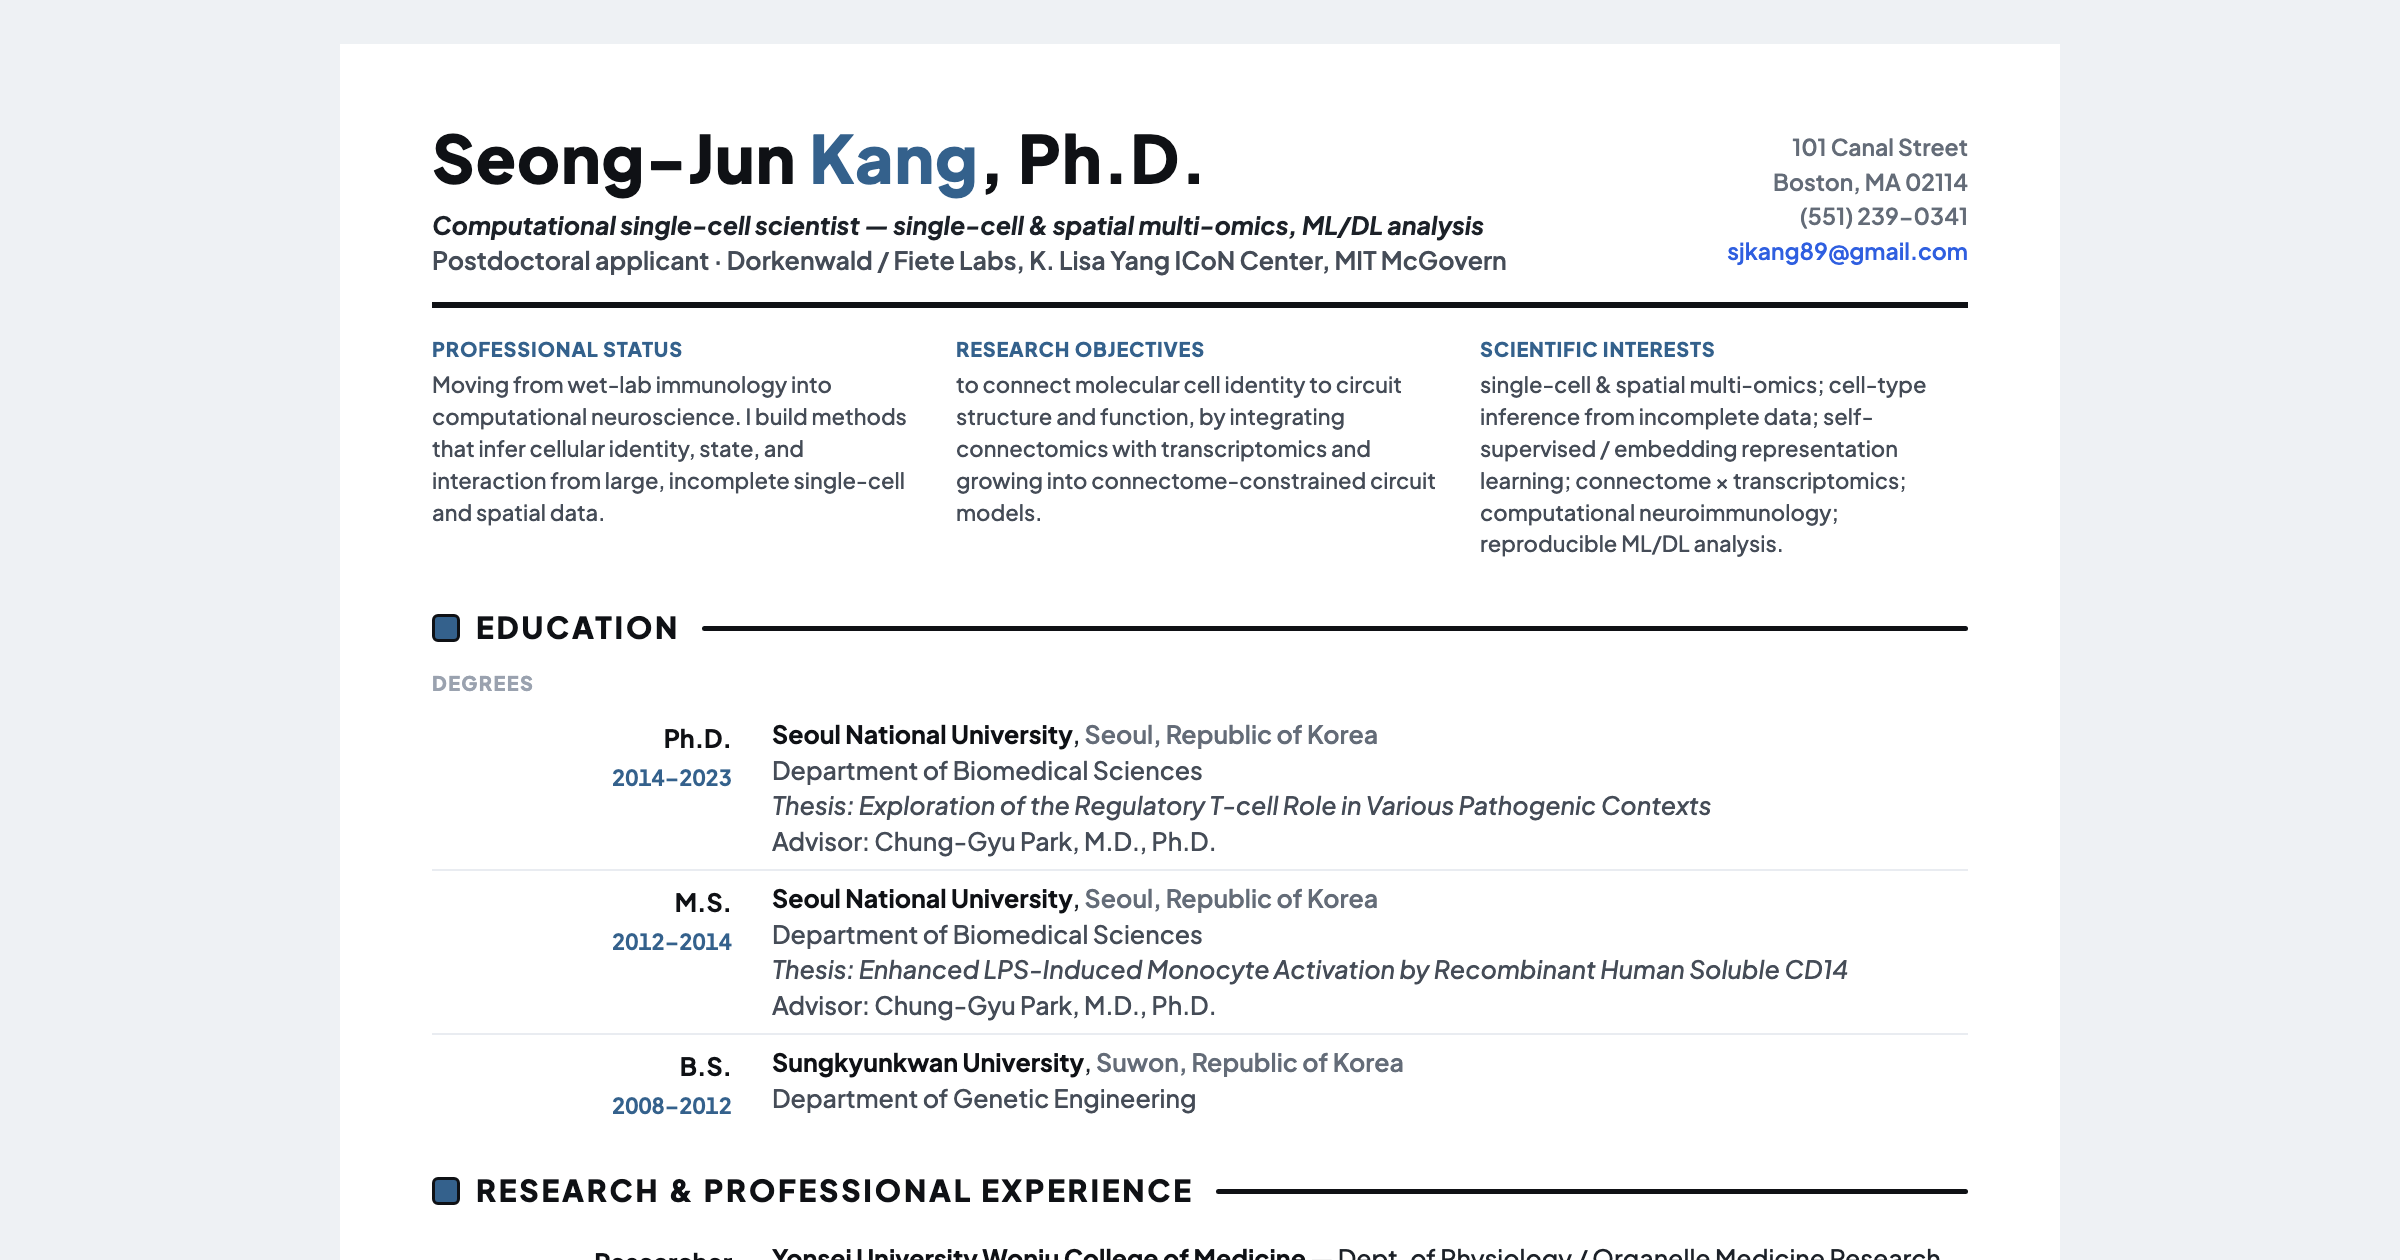
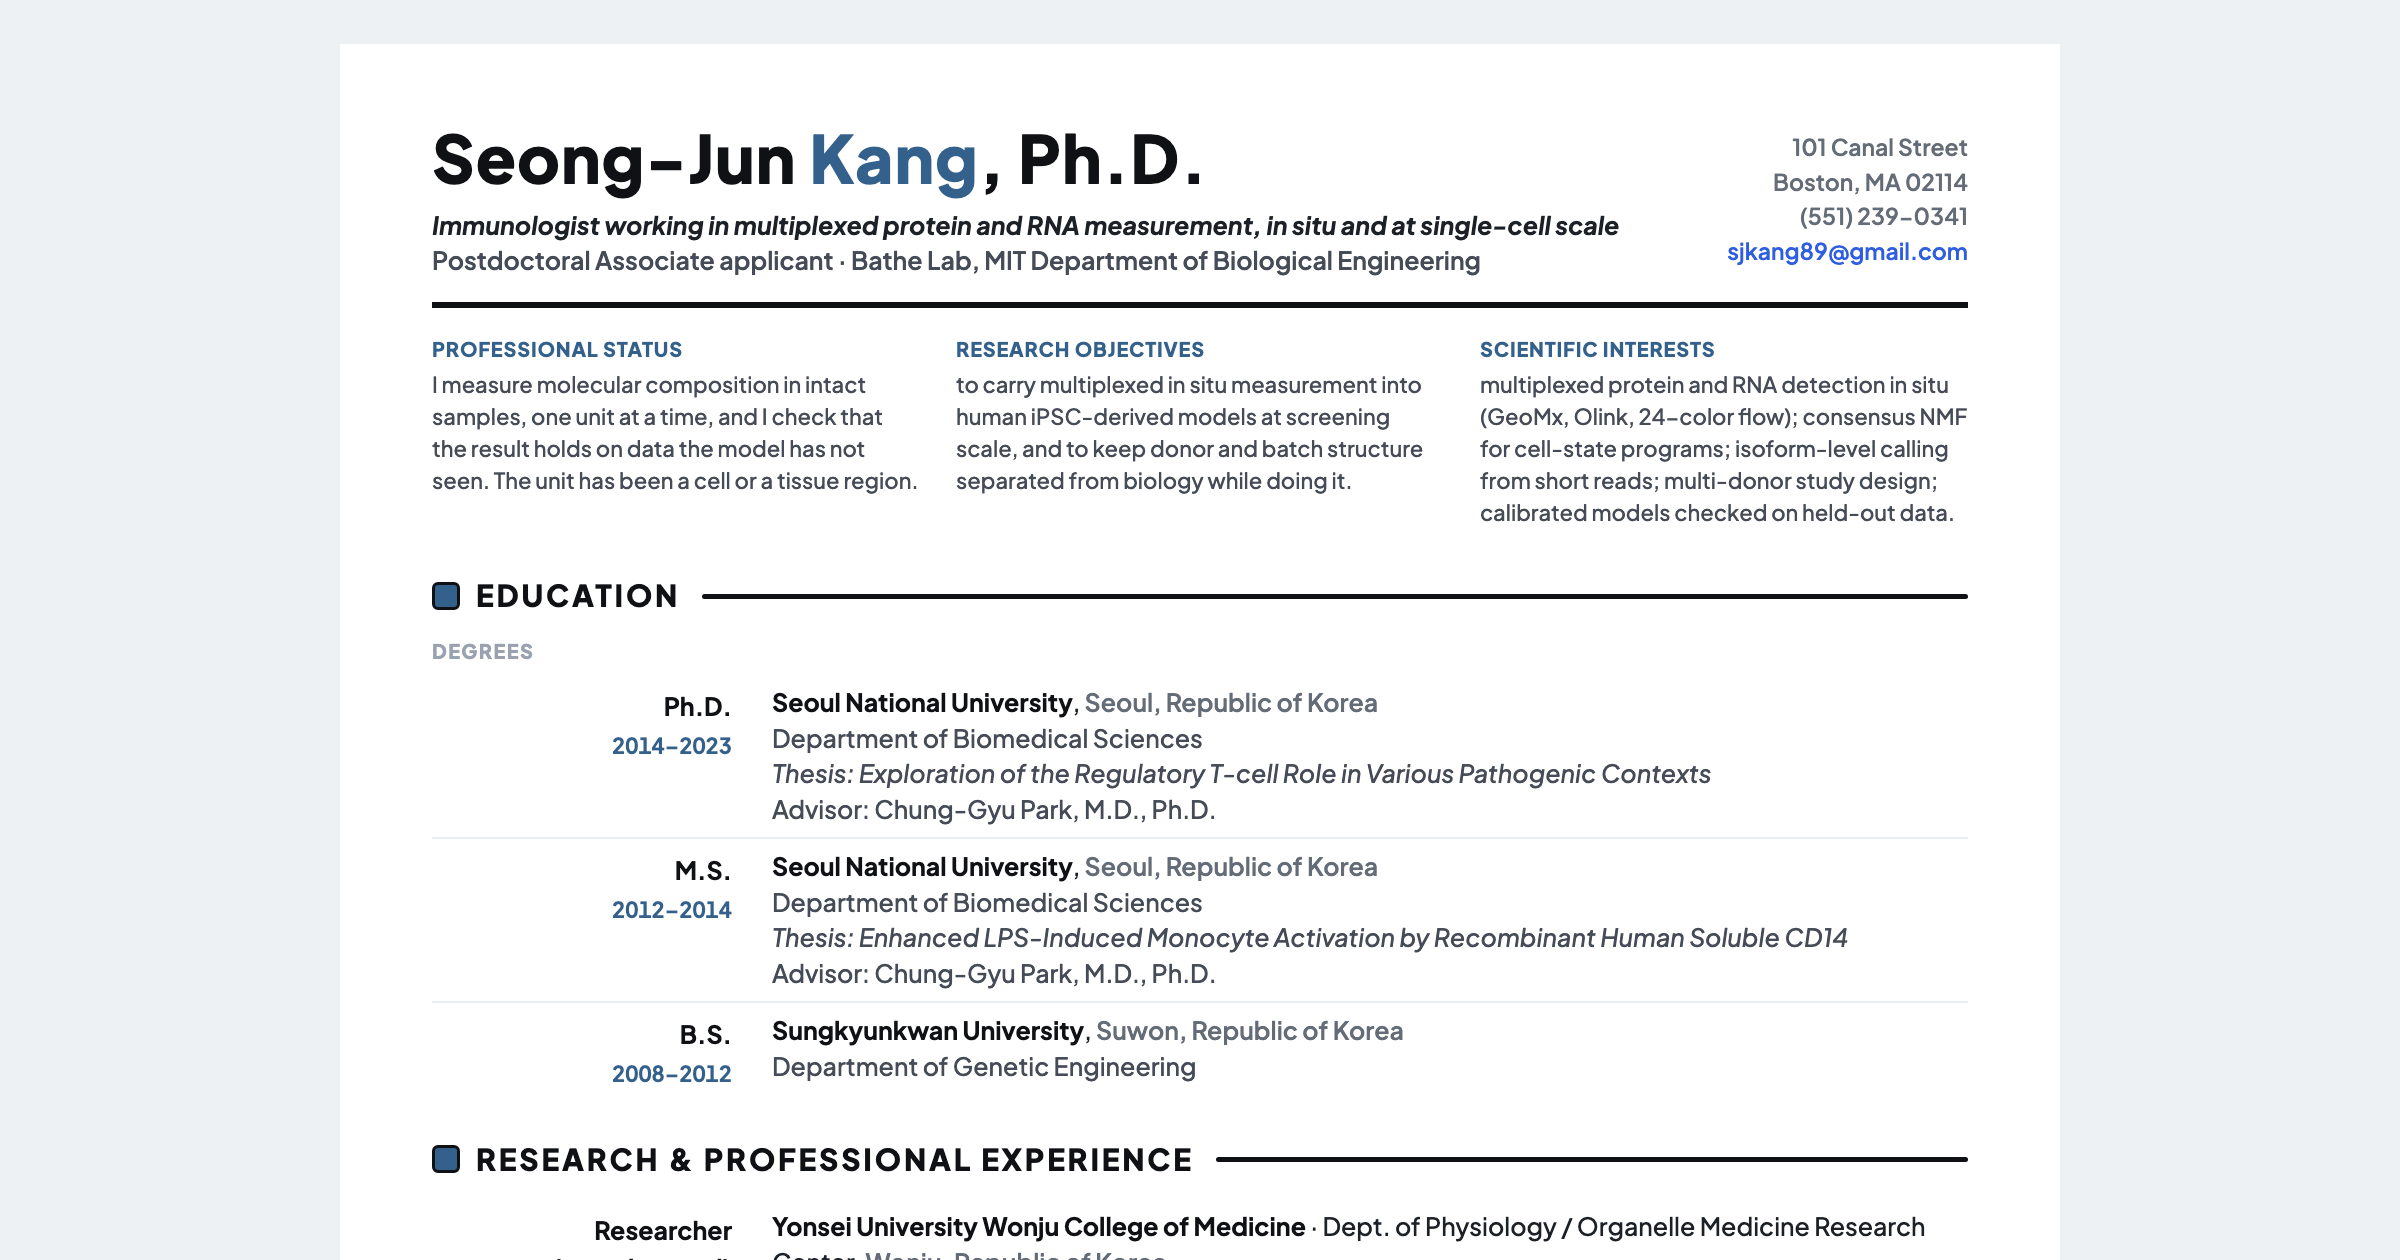
Rebuild the link-preview card, and retire a suggestion the page outgrew
og-image.png was rendered in June and still showed the Dorkenwald / Fiete
application, under a headline the CV stopped using. Anyone pasting the address
into a chat window got a preview card advertising a different post than the page
it links to. It is now rendered from the current index.html at the same size and
crop.

The chat suggestion about identity from "truncated" data came from the same
period, where truncated meant a neurite cut off at the edge of a connectome
volume. The replacement asks what has been measured and on what, which the
corpus answers with the flow, Olink, GeoMx and 10x entries.

diff --git a/index.html b/index.html
@@ -462,7 +462,7 @@ var CHAT_API = "https://seong-jun-kang.web.app";
        makes a refusal the first thing a visitor sees. */
     suggestions: [
       'What has he built from scratch rather than run as an off-the-shelf tool?',
-      'How does he infer cell identity when the data is incomplete or truncated?',
+      'What multiplexed measurements has he run, and on which platforms?',
       'What machine learning has he validated, and how?',
       'How does his wet-lab experience change the way he analyses data?'
     ]
